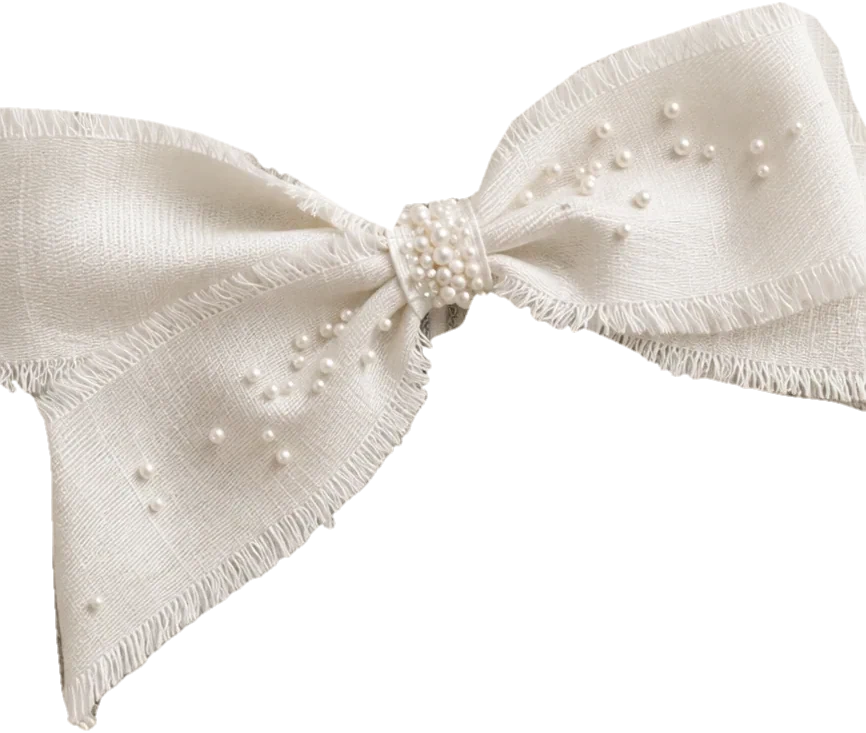
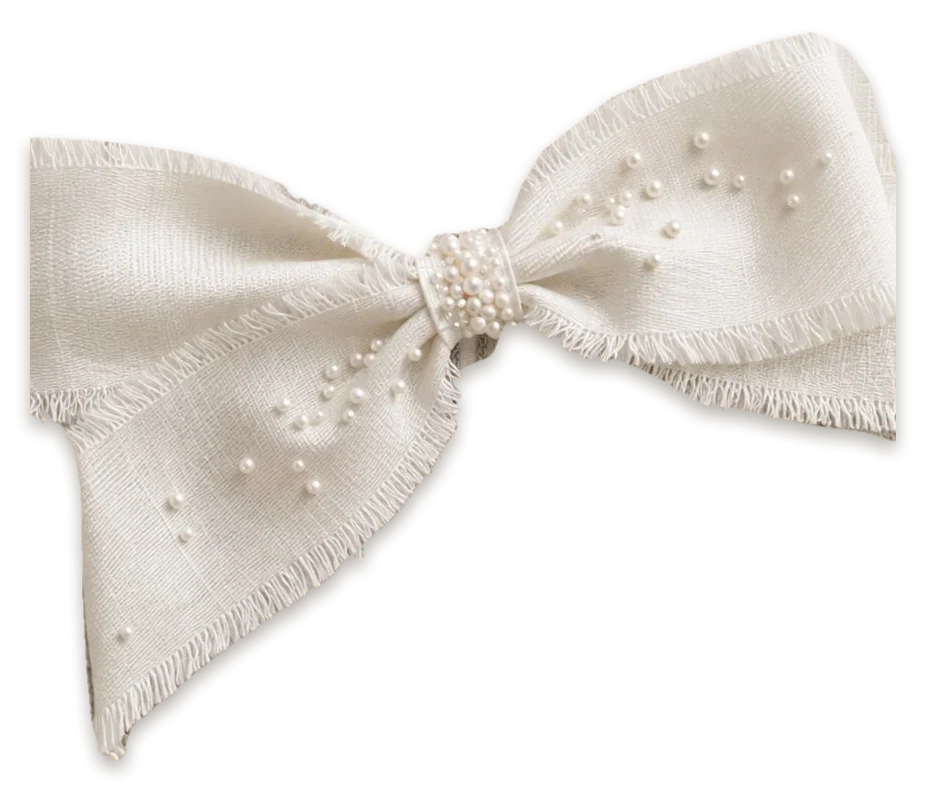
Boda floral: el lienzo cae como tela (tiras en onda) y se quita lo que hacia temblar en el celular

Changed region(s): [[0.0, 0.0, 1.0, 1.0], [0.5612, 0.1201, 0.6547, 0.2401]]

diff --git a/public/boda/js/tema-floral.js b/public/boda/js/tema-floral.js
@@ -206,6 +206,15 @@ function render(root, cfg, guest, opts = {}) {
     document.addEventListener("click", e => { if (!e.target.closest(".f-cart-wrap")) menu.hidden = true; });
   }
 
+  // En el celular, las animaciones infinitas (flores que se mecen, borla, latido) solo corren
+  // mientras están a la vista: así no se acumulan decenas de capas animadas y la página no tiembla.
+  if ("IntersectionObserver" in window) {
+    const io = new IntersectionObserver(es => es.forEach(e => e.target.classList.toggle("vis", e.isIntersecting)), { rootMargin: "60px" });
+    root.querySelectorAll(".f-flor,.f-borla,.f-papel-fecha .hoy svg").forEach(el => io.observe(el));
+  } else {
+    root.querySelectorAll(".f-flor,.f-borla,.f-papel-fecha .hoy svg").forEach(el => el.classList.add("vis"));
+  }
+
   return portadaLazo(root, cfg, guest);
 }
 
@@ -227,18 +236,42 @@ function portadaLazo(root, cfg, guest) {
   c.setAttribute("aria-label", "Abrir la invitación");
   // el lienzo con el lazo es una pieza aparte (recorte de la foto) para poder caer solo
   const lienzo = new URL("../img/lazo-lienzo.webp", import.meta.url).href;
+  // El lienzo se parte en tiras verticales finas: cada una cae con un pequeño retraso (primero el centro,
+  // después las puntas), así el listón se curva y ondula como una tela de verdad en vez de bajar tieso.
+  const N = 56;
+  let tiras = "";
+  for (let j = 0; j < N; j++) {
+    const d = ((j + 0.5) / N) * 2 - 1;               // -1 (izquierda) … 1 (derecha)
+    tiras += `<i style="--a:${Math.abs(d).toFixed(3)};--k:${(-d * 3).toFixed(3)}"></i>`;
+  }
   c.innerHTML = `<div class="f-escena">
     <div class="f-puerta izq">${arte(cfg, guest)}</div>
     <div class="f-puerta der">${arte(cfg, guest)}</div>
   </div>
-  <div class="f-lienzo" aria-hidden="true"><div class="f-lienzo-in"><img alt="" src="${lienzo}" draggable="false"></div></div>`;
+  <div class="f-lienzo" aria-hidden="true"><div class="f-lienzo-in" style="--img:url('${lienzo}')">${tiras}</div></div>`;
   document.body.appendChild(c);
+  // cada tira muestra su porción de la imagen (medidas en píxeles y con 1 px de solape para que no se vean costuras)
+  const ajustaTiras = () => {
+    const caja = c.querySelector(".f-lienzo-in");
+    if (!caja) return;
+    const w = caja.offsetWidth, h = caja.offsetHeight;
+    if (!w) return;
+    caja.querySelectorAll("i").forEach((el, j) => {
+      el.style.left = (j * w / N).toFixed(2) + "px";
+      el.style.width = (w / N + 1.2).toFixed(2) + "px";
+      el.style.backgroundSize = `${w}px ${h}px`;
+      el.style.backgroundPosition = `${(-j * w / N).toFixed(2)}px 0`;
+    });
+  };
+  ajustaTiras();
+  const onResize = () => ajustaTiras();
+  window.addEventListener("resize", onResize);
   const prev = document.body.style.overflow;
   document.body.style.overflow = "hidden";
-  const quitar = () => { document.body.style.overflow = prev; c.remove(); };
+  const quitar = () => { window.removeEventListener("resize", onResize); document.body.style.overflow = prev; c.remove(); };
   let abierto = false;
   // [cae el lienzo, se abren las puertas, se libera el scroll, se retira la portada]
-  const t = reducido() ? [0, 150, 500, 700] : [650, 1750, 3400, 4300];
+  const t = reducido() ? [0, 150, 500, 700] : [650, 1750, 3400, 4800];
   const abrir = () => {
     if (abierto) return;
     abierto = true;
@@ -251,7 +284,7 @@ function portadaLazo(root, cfg, guest) {
       if (a) a.play().catch(() => {});
     }, t[1]);
     setTimeout(() => { document.body.style.overflow = prev; }, t[2]);
-    setTimeout(() => c.remove(), t[3]);
+    setTimeout(quitar, t[3]);
   };
   c.addEventListener("click", abrir);
   c.addEventListener("keydown", e => { if (e.key === "Enter" || e.key === " ") { e.preventDefault(); abrir(); } });

diff --git a/public/boda/css/floral.css b/public/boda/css/floral.css
@@ -470,3 +470,56 @@
   .f-cover.cae .f-lienzo-in{animation-duration:.45s}
   .f-puerta{transition-duration:.4s}
 }
+
+/* =====================================================================
+   v2 · TELA DE VERDAD + FLUIDEZ EN EL CELULAR
+   - El lienzo son 40 tiras que caen en onda (centro primero, puntas después).
+   - Sin 3D, sin filtros animados y sin animaciones infinitas fuera de pantalla.
+   ===================================================================== */
+.f-cover{perspective:none}
+.f-escena{transform-style:flat}
+.f-puerta{backface-visibility:visible;-webkit-backface-visibility:visible;will-change:auto}
+.f-cover.abre .f-puerta.izq{transform:translate3d(-102%,0,0)}
+.f-cover.abre .f-puerta.der{transform:translate3d(102%,0,0)}
+
+.f-lienzo{perspective:none}
+/* caja del listón: la imagen trae 30 px de margen (con su sombra ya dibujada) */
+.f-lienzo-in{inset:auto;left:-3.4642%;top:33.6639%;width:106.9284%;height:43.6915%;transform-origin:0 0;will-change:auto}
+.f-cover.suelta .f-lienzo-in,.f-cover.cae .f-lienzo-in{animation:none}
+.f-lienzo-in i{position:absolute;top:0;bottom:0;background-image:var(--img);background-repeat:no-repeat;transform-origin:50% 38%;backface-visibility:hidden;-webkit-backface-visibility:hidden}
+
+/* 1) el nudo se afloja: las tiras ceden un poco, primero las del centro */
+.f-cover.suelta .f-lienzo-in i{animation:tela-afloja .65s ease-in-out forwards;animation-delay:calc(var(--a) * .08s)}
+@keyframes tela-afloja{
+  0%{transform:none}
+  30%{transform:translateY(1.5%) rotate(calc(var(--k) * .25deg))}
+  60%{transform:translateY(3.6%) rotate(calc(var(--k) * -.2deg))}
+  100%{transform:translateY(5%) rotate(0deg)}}
+
+/* 2) cae: el centro lidera y las puntas se arrastran, así la tela se curva y ondula */
+.f-cover.cae .f-lienzo-in i{animation:tela-cae 3.1s cubic-bezier(.4,0,.8,.55) forwards;animation-delay:calc(var(--a) * .28s)}
+@keyframes tela-cae{
+  0%{transform:translateY(5%) rotate(0deg)}
+  15%{transform:translateY(11%) rotate(calc(var(--k) * -.5deg))}
+  32%{transform:translateY(32%) rotate(calc(var(--k) * .9deg))}
+  52%{transform:translateY(70%) rotate(calc(var(--k) * -.7deg))}
+  76%{transform:translateY(126%) rotate(calc(var(--k) * .5deg))}
+  100%{transform:translateY(185%) rotate(calc(var(--k) * -.4deg))}}
+
+/* ---------- fluidez: nada se anima si no se ve ---------- */
+.inv.floral .f-flor,.inv.floral .f-borla{animation-play-state:paused}
+.inv.floral .f-flor.vis,.inv.floral .f-borla.vis{animation-play-state:running}
+.inv.floral .f-papel-fecha.v .cal .hoy svg{animation-play-state:paused}
+.inv.floral .f-papel-fecha.v .cal .hoy svg.vis{animation-play-state:running}
+/* los filtros (sombras) bajo capas animadas son lo más pesado para un celular */
+@media (hover:none),(pointer:coarse){
+  .inv.floral .f-flor svg,.f-arte .f-flor svg{filter:none}
+  .inv.floral .f-borla{filter:none}
+}
+/* la letra del monograma aparece sin desenfoque animado */
+@keyframes f-aparece{from{opacity:0;transform:translateX(-50%) scale(.93)}to{opacity:1;transform:translateX(-50%) scale(1)}}
+
+@media (prefers-reduced-motion:reduce){
+  .f-cover.cae .f-lienzo-in i{animation-duration:.5s;animation-delay:0s}
+  .f-cover.suelta .f-lienzo-in i{animation-duration:.2s;animation-delay:0s}
+}
